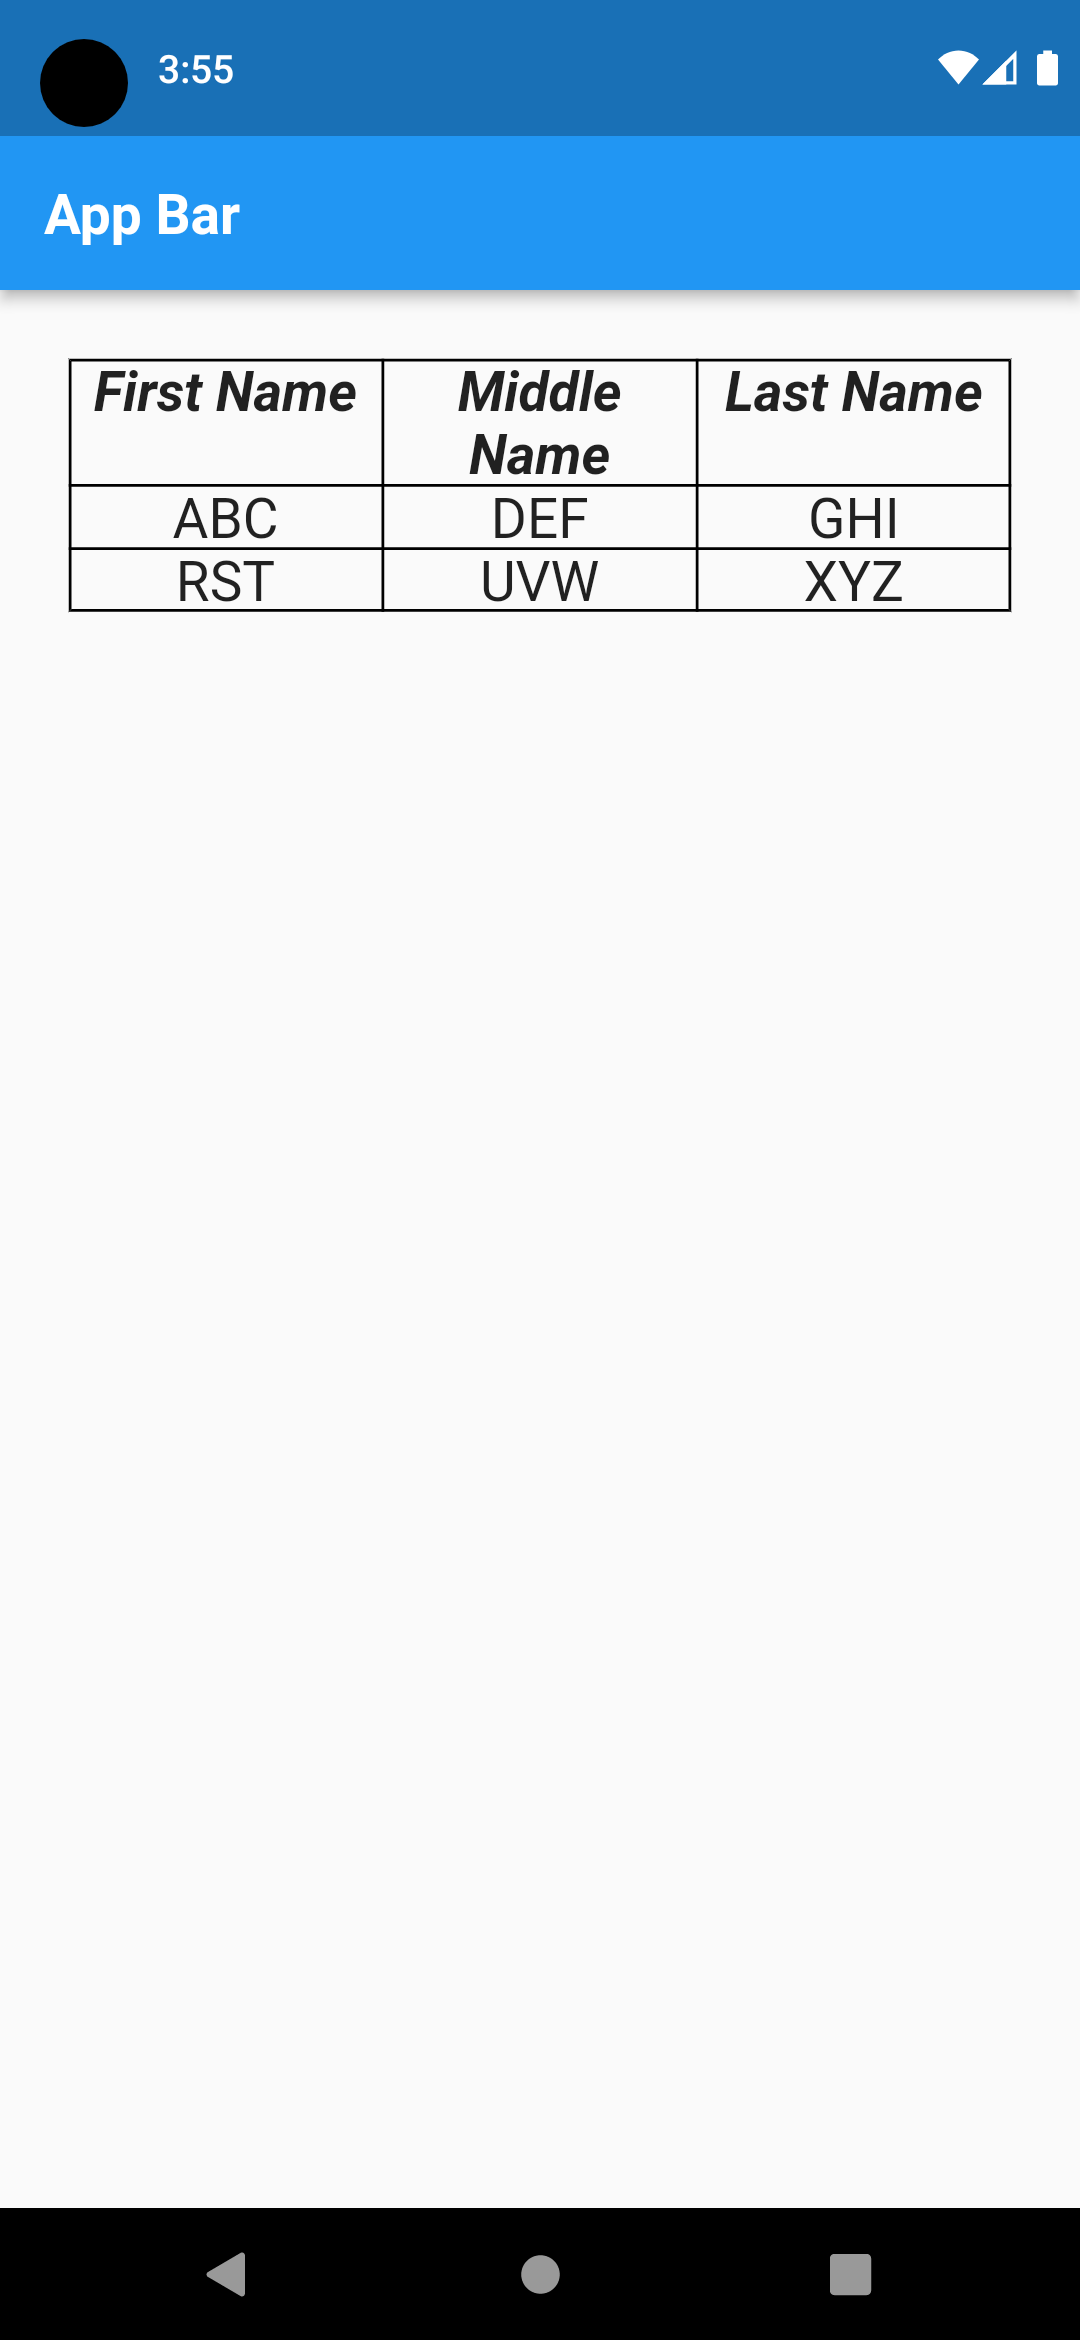
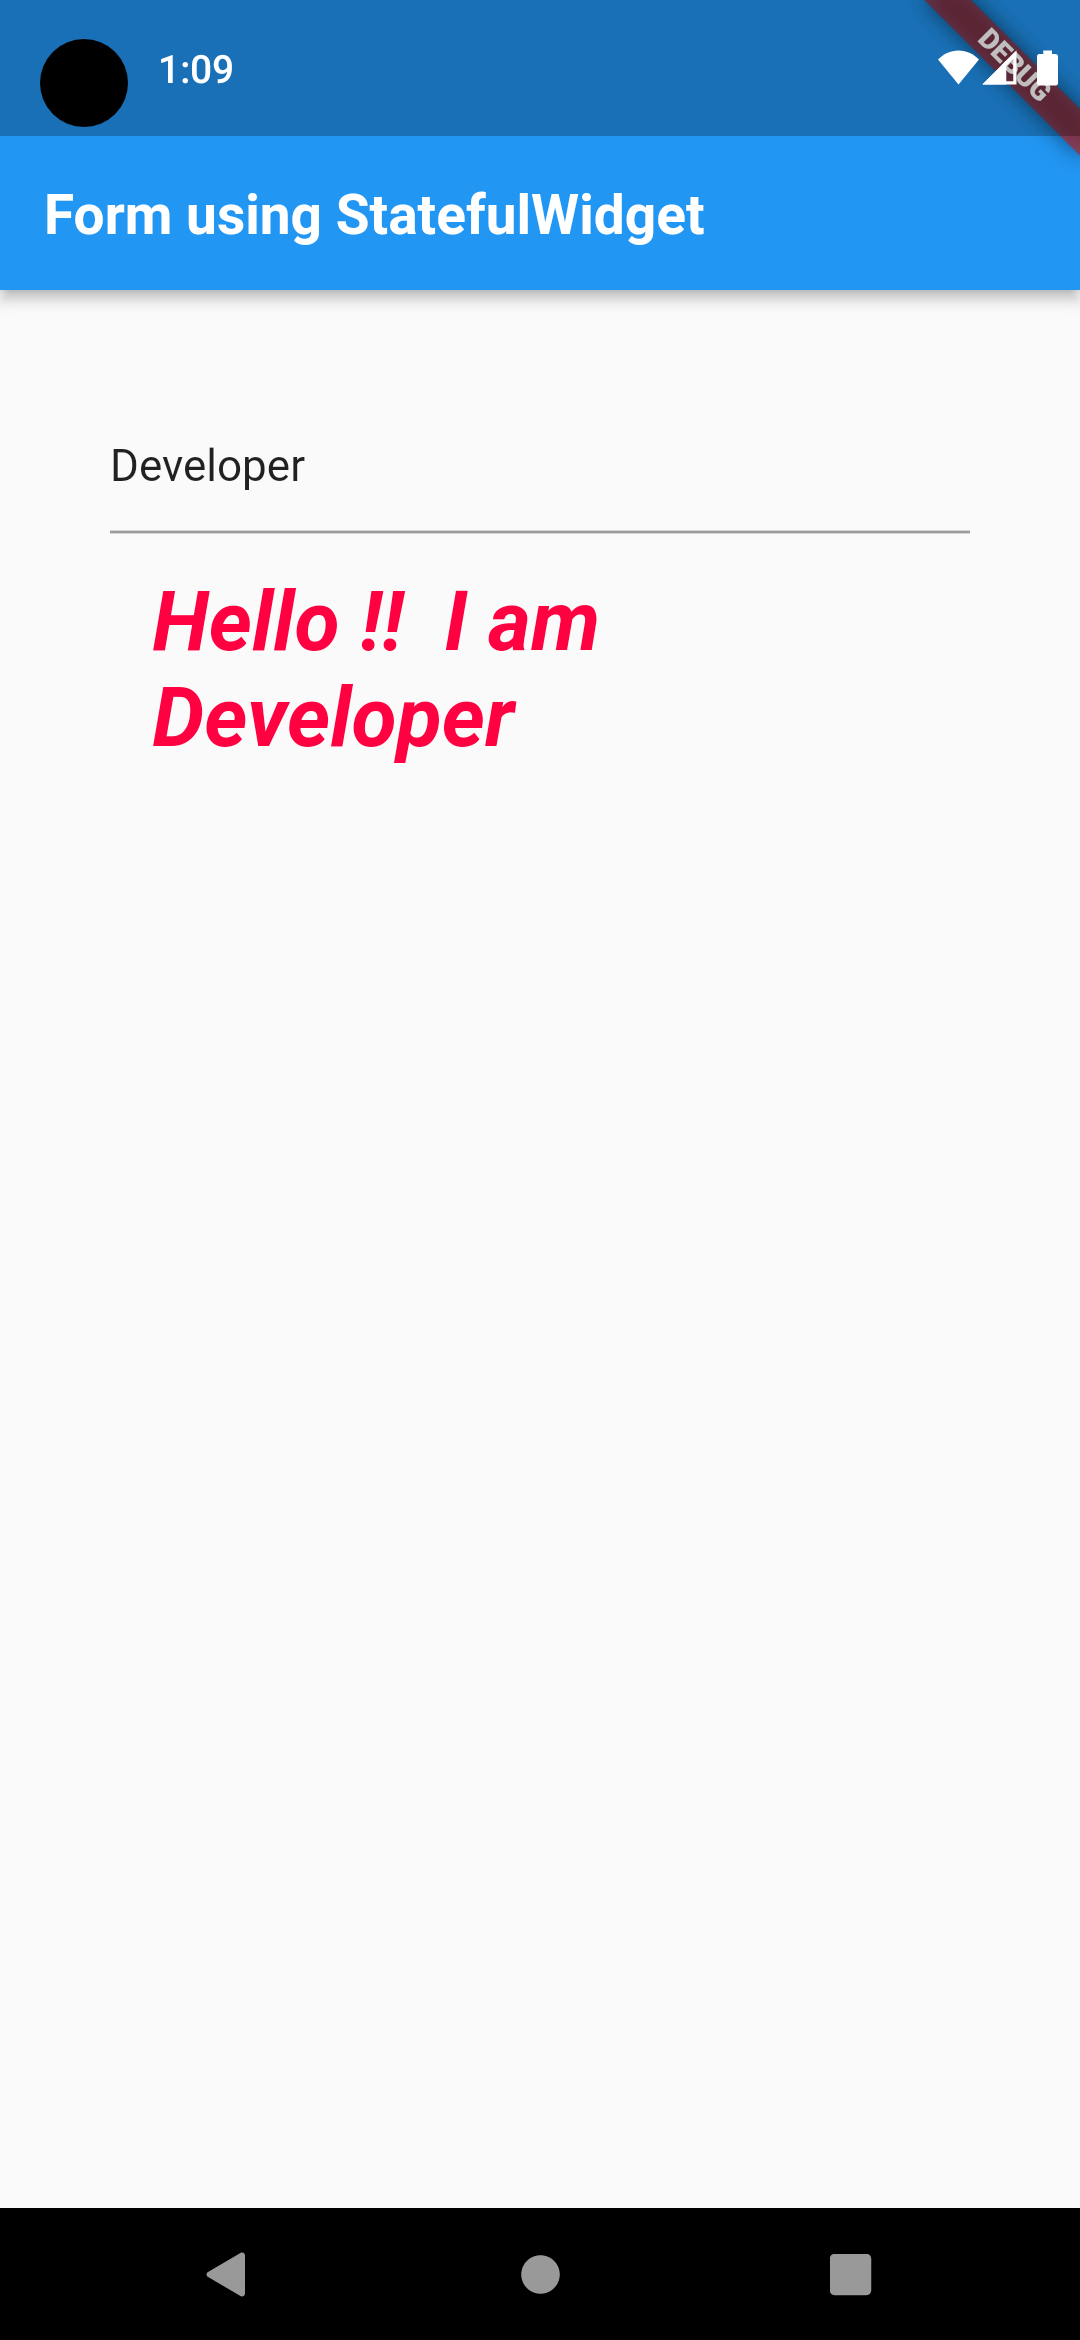
StatefulWidget using Form, Container, Padding, onSubmitted, setState

diff --git a/lib/main.dart b/lib/main.dart
@@ -1,25 +1,150 @@
 import 'package:flutter/material.dart';
-import 'package:flutter_dev_practice/screens/table_screen.dart';
 
-void main() => runApp(HomeScreen());
+void main() {
+  runApp(
+    MaterialApp(
+      title: "StatefulWidget_Concept",
+      home: HomeScreen(),
+    ),
+  );
+}
 
-class HomeScreen extends StatelessWidget {
+class HomeScreen extends StatefulWidget {
+  const HomeScreen({Key? key}) : super(key: key);
+
+  @override
+  _HomeScreenState createState() => _HomeScreenState();
+}
+
+class _HomeScreenState extends State<HomeScreen> {
+  String fName = "";
   @override
   Widget build(BuildContext context) {
-    return MaterialApp(
-      debugShowCheckedModeBanner: false,
-      title: "First App",
-      home: Scaffold(
-        appBar: AppBar(
-          title: Text(
-            "App Bar",
-            style: TextStyle(
-              fontWeight: FontWeight.bold,
-            ),
+    return Scaffold(
+      appBar: AppBar(
+        title: Text(
+          "Form using StatefulWidget",
+          style: TextStyle(
+            fontWeight: FontWeight.bold,
           ),
         ),
-        body: TableScreen(),
+      ),
+      body: Container(
+        margin: EdgeInsets.all(20.0),
+        padding: EdgeInsets.all(20.0),
+        child: Column(
+          children: <Widget>[
+            TextField(
+              onSubmitted: (String firstName) {
+                setState(() {
+                  fName = firstName;
+                });
+              },
+            ),
+            Padding(
+              padding: const EdgeInsets.all(15.0),
+              child: Text(
+                "Hello !! \tI am $fName ",
+                style: TextStyle(
+                  color: Color.fromARGB(255, 255, 0, 64),
+                  fontStyle: FontStyle.italic,
+                  fontWeight: FontWeight.bold,
+                  fontSize: 30.0,
+                ),
+              ),
+            ),
+          ],
+        ),
       ),
     );
   }
 }
+
+
+
+
+
+
+
+
+
+
+
+
+
+
+
+
+
+
+
+
+
+
+
+
+
+
+
+
+
+
+
+
+
+// import 'package:flutter/material.dart';
+
+// void main() {
+//   runApp(
+//     MaterialApp(
+//       title: "Form Using StatefullWidget",
+//       home: SimpleForm(),
+//     ),
+//   );
+// }
+
+// class SimpleForm extends StatefulWidget {
+//   @override
+//   _SimpleFormState createState() => _SimpleFormState();
+// }
+
+// class _SimpleFormState extends State<SimpleForm> {
+//   String name = "";
+//   @override
+//   Widget build(BuildContext context) {
+//     return Scaffold(
+//       appBar: AppBar(
+//         title: Text(
+//           "Form using StatefulWidget",
+//         ),
+//       ),
+//       body: Container(
+//         margin: EdgeInsets.all(20.0),
+//         padding: EdgeInsets.all(10.0),
+//         child: Column(
+//           children: <Widget>[
+//             TextField(
+//               onSubmitted: (String username) {
+//                 setState(() {
+//                   name = username;
+//                 });
+//               },
+//             ),
+//             Padding(
+//               padding: const EdgeInsets.all(10.0),
+//               child: Text(
+//                 "Hello !! \nI am $name",
+//                 style: TextStyle(
+//                   color: Colors.amberAccent,
+//                   fontSize: 30.0,
+//                   fontStyle: FontStyle.italic,
+//                   fontWeight: FontWeight.bold,
+//                 ),
+//               ),
+//             ),
+//           ],
+//         ),
+//       ),
+//     );
+//   }
+// }

diff --git a/README.md b/README.md
@@ -1,6 +1,5 @@
-## Not a good practice on Table Widget.
-### The code is  to understand the concept
-### Concepts : Table , TableRow, Container(Margin, Padding)
+### StatefulWidget using Form
+### Container, Padding, onSubmitted, setState
 <p align="center">
-  <img src="screenshot.png" width="380" title="hover text">
+  <img src="Screenshot.png" width="380" title="hover text">
 </p>
